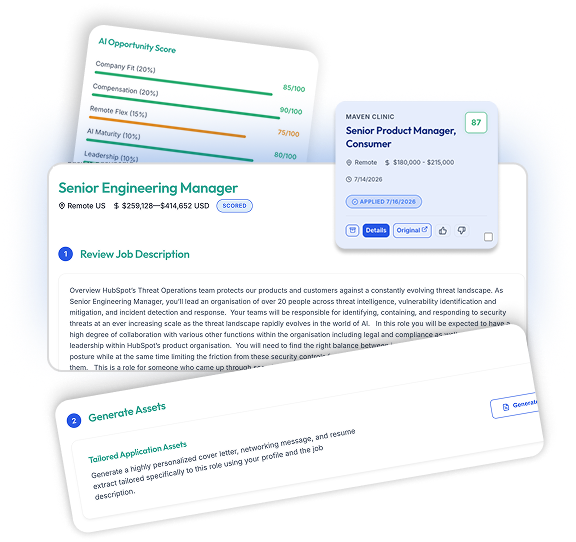
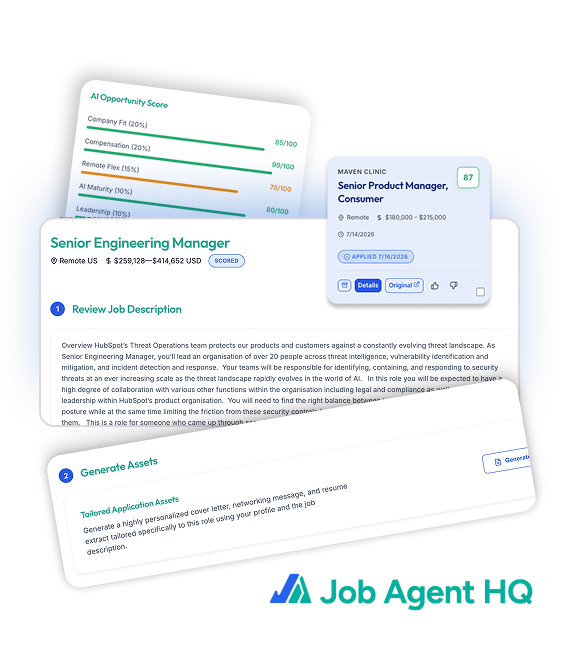
Update landing page layouts, bot illustrations, and hero section styling

Changed region(s): [[0.0625, 0.0295, 0.9375, 0.9151], [0.0938, 0.8561, 0.125, 0.9446], [0.9375, 0.7675, 0.9688, 0.8266]]

diff --git a/src/components/landing/Comparison.tsx b/src/components/landing/Comparison.tsx
@@ -11,27 +11,108 @@ export default function Comparison() {
   ];
 
   return (
-    <section id="features" style={{ padding: '6rem var(--section-px)', background: '#ffffff' }}>
-      <div style={{ maxWidth: '1200px', margin: '0 auto' }}>
-        <div style={{ textAlign: 'center', marginBottom: '4rem' }}>
-          <h2 style={{ fontSize: '2.5rem', color: 'var(--text-primary)', marginBottom: '1rem' }}>Why It's Different</h2>
-          <p style={{ color: 'var(--text-secondary)', fontSize: '1.1rem' }}>Stop applying like it's 2015.</p>
+    <section id="features" style={{ padding: '6rem var(--section-px)', background: '#f8fafc' }}>
+      <style>{`
+        .comparison-child-div {
+          max-width: 1050px;
+          margin: 0 auto;
+          background-image: url('/light-robot.png');
+          background-repeat: no-repeat;
+          background-position: right bottom;
+          background-size: 380px auto;
+          min-height: 520px;
+        }
+
+        .comparison-card {
+          max-width: 660px;
+          width: 100%;
+          border-radius: 16px;
+          overflow: hidden;
+          box-shadow: 0 20px 25px -5px rgba(0, 0, 0, 0.08), 0 8px 10px -6px rgba(0, 0, 0, 0.03);
+          border: 1px solid rgba(0, 0, 0, 0.06);
+          background: #ffffff;
+          display: grid;
+          grid-template-columns: 1fr 1fr;
+        }
+
+        .comparison-header {
+          max-width: 660px;
+          width: 100%;
+          text-align: center;
+          margin-bottom: 3.5rem;
+        }
+
+        @media (max-width: 960px) {
+          .comparison-child-div {
+            background-position: right -20px bottom;
+            background-size: 300px auto;
+          }
+          .comparison-card,
+          .comparison-header {
+            max-width: 500px;
+          }
+        }
+
+        @media (max-width: 768px) {
+          .comparison-child-div {
+            background-image: none;
+            min-height: auto;
+          }
+          .comparison-card,
+          .comparison-header {
+            max-width: 100%;
+          }
+        }
+      `}</style>
+
+      <div className="comparison-child-div">
+        {/* Title Header */}
+        <div className="comparison-header">
+          <h2 style={{ 
+            fontSize: '2.5rem', 
+            fontWeight: 700, 
+            color: '#0f172a', 
+            marginBottom: '0.75rem',
+            letterSpacing: '-0.02em'
+          }}>
+            Why It's Different
+          </h2>
+          <p style={{ color: '#64748b', fontSize: '1.1rem', margin: 0 }}>
+            Stop applying like it's 2015.
+          </p>
         </div>
 
-        <div style={{ 
-          borderRadius: '16px', 
-          overflow: 'hidden', 
-          border: '1px solid var(--border-glass)',
-          display: 'grid', 
-          gridTemplateColumns: '1fr 1.2fr',
-          boxShadow: 'rgba(0, 0, 0, 0.3) 0px 5px 10px -2px'
-        }}>
+        {/* Comparison Card */}
+        <div className="comparison-card">
           {/* Header Row */}
-          <div style={{ background: 'var(--bg-surface)', padding: '1rem var(--section-px)', borderBottom: '1px solid var(--border-glass)' }}>
-            <h3 style={{ fontSize: 'clamp(1rem, 4vw, 1.25rem)', color: 'var(--text-primary)', margin: 0 }}>Traditional</h3>
+          <div style={{ 
+            background: '#ffffff', 
+            padding: '1.2rem 1.5rem', 
+            borderBottom: '1px solid #f1f5f9' 
+          }}>
+            <h3 style={{ 
+              fontSize: '1.15rem', 
+              color: '#0f172a', 
+              margin: 0, 
+              fontWeight: 700 
+            }}>
+              Traditional
+            </h3>
           </div>
-          <div style={{ background: '#06af9e', padding: '1rem var(--section-px)', borderBottom: '1px solid rgba(255,255,255,0.2)' }}>
-            <h3 style={{ fontSize: 'clamp(1rem, 4vw, 1.25rem)', color: '#fff', margin: 0, fontWeight: 600 }}>Your AI Agent</h3>
+
+          <div style={{ 
+            background: '#06af9e', 
+            padding: '1.2rem 1.5rem', 
+            borderBottom: '1px solid rgba(255,255,255,0.2)' 
+          }}>
+            <h3 style={{ 
+              fontSize: '1.15rem', 
+              color: '#ffffff', 
+              margin: 0, 
+              fontWeight: 700 
+            }}>
+              Your AI Agent
+            </h3>
           </div>
 
           {/* Data Rows */}
@@ -39,38 +120,41 @@ export default function Comparison() {
             <div style={{ display: 'contents' }} key={idx}>
               {/* Traditional Side */}
               <div style={{ 
-                background: idx % 2 === 0 ? 'rgba(255,255,255,0.02)' : 'transparent', 
-                padding: '1rem var(--section-px)', 
-                borderBottom: idx === comparisons.length - 1 ? 'none' : '1px solid var(--border-glass)',
-                display: 'flex', alignItems: 'center', gap: '0.75rem',
-                color: 'var(--text-secondary)'
+                background: '#ffffff', 
+                padding: '1rem 1.25rem', 
+                borderBottom: idx === comparisons.length - 1 ? 'none' : '1px solid #f1f5f9',
+                display: 'flex', 
+                alignItems: 'center', 
+                gap: '0.75rem',
+                color: '#475569'
               }}>
-                <X size={20} color="var(--danger)" opacity={0.5} style={{ flexShrink: 0 }} />
-                <span style={{ fontSize: 'clamp(0.85rem, 3.5vw, 1.05rem)' }}>{item.old}</span>
+                <X size={16} color="#f87171" style={{ flexShrink: 0 }} />
+                <span style={{ fontSize: '0.95rem', fontWeight: 400 }}>{item.old}</span>
               </div>
 
               {/* AI Agent Side */}
               <div style={{ 
                 background: '#06af9e', 
-                padding: '1rem var(--section-px)', 
+                padding: '1rem 1.25rem', 
                 borderBottom: idx === comparisons.length - 1 ? 'none' : '1px solid rgba(255,255,255,0.2)',
-                display: 'flex', alignItems: 'center', gap: '0.75rem',
-                color: '#fff'
+                display: 'flex', 
+                alignItems: 'center', 
+                gap: '0.75rem',
+                color: '#ffffff'
               }}>
                 <div style={{
-                  width: '24px',
-                  height: '24px',
+                  width: '20px',
+                  height: '20px',
                   borderRadius: '50%',
-                  background: '#fff',
+                  background: '#ffffff',
                   display: 'flex',
                   alignItems: 'center',
                   justifyContent: 'center',
-                  boxShadow: '0 2px 4px rgba(0,0,0,0.1)',
                   flexShrink: 0
                 }}>
-                  <Check size={14} color="#10b981" strokeWidth={3} />
+                  <Check size={13} color="#06af9e" strokeWidth={3} />
                 </div>
-                <span style={{ fontSize: 'clamp(0.85rem, 3.5vw, 1.05rem)', fontWeight: 500 }}>{item.new}</span>
+                <span style={{ fontSize: '0.95rem', fontWeight: 600 }}>{item.new}</span>
               </div>
             </div>
           ))}
@@ -79,3 +163,4 @@ export default function Comparison() {
     </section>
   );
 }
+

diff --git a/src/components/landing/HeroSection.tsx b/src/components/landing/HeroSection.tsx
@@ -1,5 +1,4 @@
 import Link from 'next/link';
-import { Star, PlayCircle } from 'lucide-react';
 
 export default function HeroSection() {
   return (
@@ -28,20 +27,22 @@ export default function HeroSection() {
         <p style={{ 
           fontSize: '1.15rem',
           color: 'var(--text-secondary)',
-          marginBottom: '2.5rem',
+          marginBottom: '1rem',
           lineHeight: 1.6,
           maxWidth: '500px'
         }}>
           Your personal AI job search agent discovers jobs, tailors your resume, writes cover letters, and can automatically complete online application forms using the information and documents you've approved.
         </p>
 
-        <div style={{ display: 'flex', gap: '1rem', marginBottom: '2rem' }}>
+        <div style={{ display: 'flex', alignItems: 'center', gap: '1rem', marginBottom: '0.5rem' }}>
           <Link href="/login" className="btn-primary" style={{ padding: '0.8rem 1.5rem', fontSize: '1.05rem', fontWeight: 600, borderRadius: '8px' }}>
             Get Started Free
           </Link>
-          <button className="btn-outline" style={{ padding: '0.8rem 1.5rem', fontSize: '1.05rem', fontWeight: 600, borderRadius: '8px', background: '#fff', border: '1px solid rgba(0,0,0,0.08)', color: 'var(--text-primary)', boxShadow: '0 2px 4px rgba(0,0,0,0.05)' }}>
-            Watch Demo
-          </button>
+          <img 
+            src="/lil-bot.png" 
+            alt="Job Agent Bot" 
+            style={{ height: '195px', width: 'auto', objectFit: 'contain', margin: '-1.5rem 0' }} 
+          />
         </div>
       </div>
 

diff --git a/src/components/landing/HowItWorks.tsx b/src/components/landing/HowItWorks.tsx
@@ -64,7 +64,7 @@ export default function HowItWorks() {
             <img 
               src="/layers.png" 
               alt="How it works workflow diagram" 
-              style={{ width: '100%', height: 'auto', maxHeight: '550px', objectFit: 'contain' }} 
+              style={{ width: '100%', height: 'auto', objectFit: 'contain' }} 
             />
           </div>
         </div>